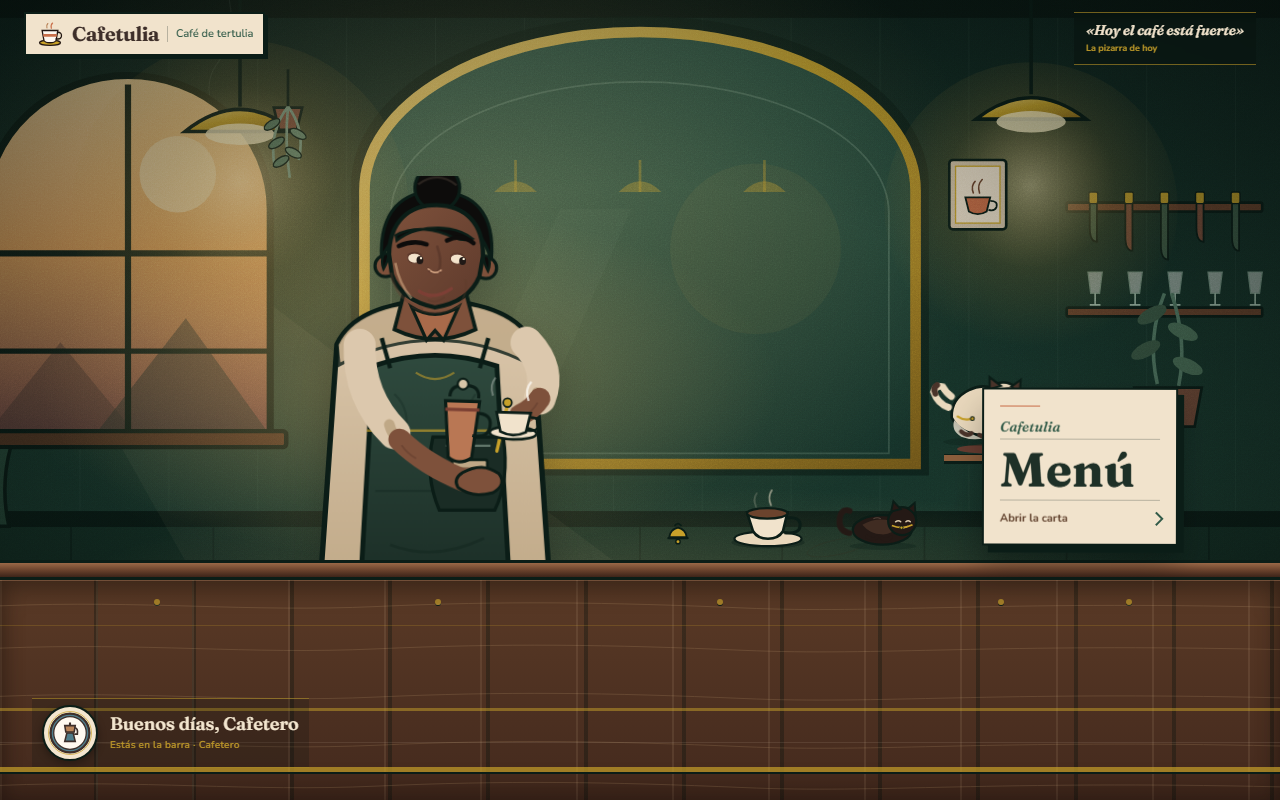
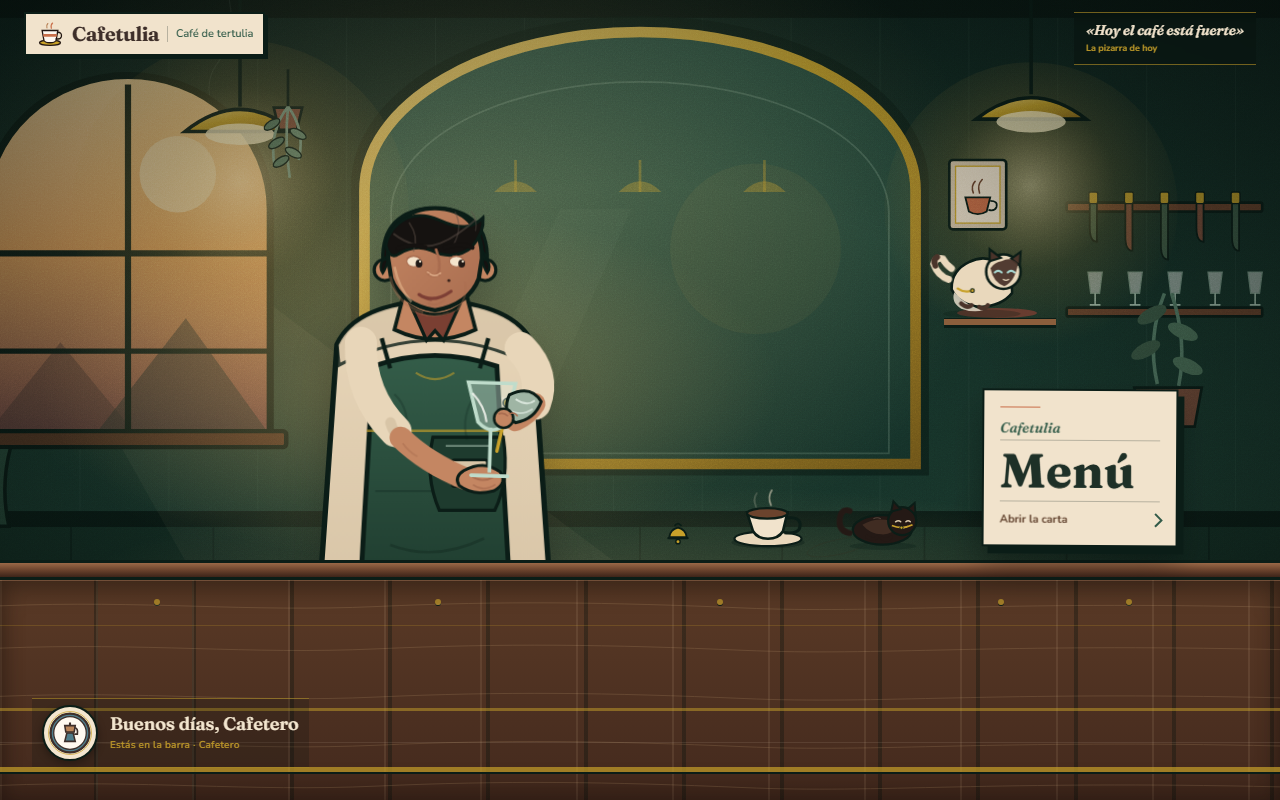
fix: afinar rostro gatos y cache pwa

diff --git a/apps/web/src/components/TitleBarBarista.tsx b/apps/web/src/components/TitleBarBarista.tsx
@@ -213,8 +213,8 @@ export function TitleBarBarista({
           <path d="M128 127 Q150 138 174 125" fill="none" stroke={variant.skinShade} strokeWidth="1.6" opacity="0.28" />
           <path d="M112 86 Q116 106 128 119" fill="none" stroke="#F1C79C" strokeWidth="2.4" opacity="0.45" />
 
-          <path d="M115 70 Q128 64 141 68" fill="none" stroke={variant.hair} strokeWidth="4.2" strokeLinecap="round" />
-          <path d="M160 64 Q173 57 185 66" fill="none" stroke={variant.hair} strokeWidth="4.2" strokeLinecap="round" />
+          <path d="M115 69 Q128 64 141 68" fill="none" stroke={variant.hair} strokeWidth="4.2" strokeLinecap="round" />
+          <path d="M159 68 Q172 63 185 68" fill="none" stroke={variant.hair} strokeWidth="4.2" strokeLinecap="round" />
           <ellipse cx="130" cy="81" rx="6.5" ry="5" fill="#F4E4CC" stroke={variant.skinShade} strokeWidth="1" />
           <ellipse cx="170" cy="81" rx="6.5" ry="5" fill="#F4E4CC" stroke={variant.skinShade} strokeWidth="1" />
           <ellipse cx="135" cy="83" rx="3.2" ry="3.8" fill="#201916" />
@@ -274,9 +274,8 @@ export function TitleBarBarista({
 function ForwardHair({ variant }: { variant: BaristaVariant }): React.ReactElement {
   return (
     <g fill={variant.hair} stroke="#0B1D17" strokeWidth="3">
-      {/* Corte corto: nuca y laterales rebajados, volumen arriba */}
+      {/* Corte corto: nuca y laterales rebajados */}
       <path d="M101 80 C100 50 116 31 150 31 C184 31 200 50 199 80 C192 64 180 56 166 53 C152 50 138 54 126 62 C116 69 106 76 101 80 Z" />
-      <path d="M104 56 C116 44 130 39 145 42 C159 45 171 53 184 48 C190 46 194 42 197 38 C198 48 193 59 185 66 C174 74 161 74 149 69 C137 63 126 67 116 73 C109 77 105 71 104 66 C103 62 103 58 104 56 Z" fill={variant.hairLight} strokeWidth="2.4" opacity="0.9" />
       <path d="M101 80 Q97 86 101 92 Q105 86 106 78 Z" strokeWidth="2.2" />
       <path d="M199 80 Q203 86 199 92 Q195 86 194 78 Z" strokeWidth="2.2" />
       <path d="M106 83 Q110 87 111 92" fill="none" stroke={variant.hairLight} strokeWidth="1.4" opacity="0.5" />
@@ -290,13 +289,14 @@ function ForwardHair({ variant }: { variant: BaristaVariant }): React.ReactEleme
 function ForwardFringe({ variant }: { variant: BaristaVariant }): React.ReactElement {
   return (
     <g>
+      {/* Flequillo barrido hacia delante, con raya lateral y mechones */}
       <path
-        d="M105 61 C111 44 127 35 144 39 C157 42 167 50 180 48 C187 47 192 42 195 37 C197 48 192 60 184 68 C173 77 159 77 147 71 C136 66 126 68 116 74 C109 79 105 72 104 66 Z"
+        d="M105 61 C111 44 127 35 144 39 C157 42 167 50 180 48 C187 47 192 43 195 40 C196 50 191 60 184 68 C173 77 159 77 147 71 C136 66 126 68 116 74 C109 79 105 72 104 66 Z"
         fill={variant.hair}
         stroke="#0B1D17"
         strokeWidth="2.8"
       />
-      <path d="M112 55 C124 65 140 70 155 64 C167 59 178 51 188 42" fill="none" stroke={variant.hairLight} strokeWidth="1.8" opacity="0.5" />
+      <path d="M111 55 C124 65 140 70 155 64 C167 59 178 51 188 42" fill="none" stroke={variant.hairLight} strokeWidth="1.8" opacity="0.5" />
       <path d="M126 45 Q135 58 130 71" fill="none" stroke={variant.hairLight} strokeWidth="1.7" strokeLinecap="round" opacity="0.45" />
       <path d="M169 35 Q176 49 168 64" fill="none" stroke={variant.hairLight} strokeWidth="1.6" strokeLinecap="round" opacity="0.4" />
       <path d="M184 34 Q190 42 188 52" fill="none" stroke={variant.hairLight} strokeWidth="1.4" strokeLinecap="round" opacity="0.4" />

diff --git a/apps/web/src/components/TitleBarScene.tsx b/apps/web/src/components/TitleBarScene.tsx
@@ -418,15 +418,15 @@ export function TitleBarScene({
       </div>
 
       {/* Dos gatos de la casa: siamés en la estantería y oscuro en la barra */}
-      <div className="pointer-events-none absolute bottom-[54.3%] right-[6.5%] z-[3] h-2 w-20 border-y border-[#0B1D17] bg-[#8B5E3C] shadow-[0_2px_0_#0B1D17] sm:right-[17.5%] sm:w-28" />
-      <div className="pointer-events-none absolute bottom-[55.2%] right-[8%] z-[3] h-2.5 w-14 rounded-[50%] bg-[#7A3F32]/80 sm:right-[19%] sm:w-20" />
+      <div className="pointer-events-none absolute bottom-[59.3%] right-[6.5%] z-[3] h-2 w-20 border-y border-[#0B1D17] bg-[#8B5E3C] shadow-[0_2px_0_#0B1D17] sm:right-[17.5%] sm:w-28" />
+      <div className="pointer-events-none absolute bottom-[60.2%] right-[8%] z-[3] h-2.5 w-14 rounded-[50%] bg-[#7A3F32]/80 sm:right-[19%] sm:w-20" />
       <button
         type="button"
         data-testid="title-cat-siames"
         onClick={() => petCat('Miau. El siamés de la casa te mira con ojos azules.')}
         aria-label="Acariciar al gato siamés"
         title="Acariciar al siamés"
-        className="absolute bottom-[55%] right-[8%] z-[4] w-[72px] cursor-pointer text-left transition-transform hover:-translate-y-0.5 focus:outline-2 focus:outline-offset-4 focus:outline-[#F0D278] sm:right-[19%] sm:w-28"
+        className="absolute bottom-[60%] right-[8%] z-[4] w-[72px] cursor-pointer text-left transition-transform hover:-translate-y-0.5 focus:outline-2 focus:outline-offset-4 focus:outline-[#F0D278] sm:right-[19%] sm:w-28"
       >
         <SiameseCat reducedMotion={reducedMotion} />
       </button>

diff --git a/apps/web/src/index.css b/apps/web/src/index.css
@@ -312,10 +312,10 @@
 @keyframes cafe-head-sway {
   0%,
   100% {
-    transform: rotate(-1deg) translateY(0);
+    transform: translateY(0);
   }
   50% {
-    transform: rotate(1.2deg) translateY(-2px);
+    transform: translateY(-1px);
   }
 }
 
@@ -443,7 +443,7 @@
 .cafe-head-gaze {
   transform-box: fill-box;
   transform-origin: 50% 90%;
-  transform: translate(-3px, 1px) rotate(-1.4deg);
+  transform: translateX(-2px);
   transition: transform 300ms ease-out;
 }
 

diff --git a/public/sw.js b/public/sw.js
@@ -1,5 +1,5 @@
 /* global self, caches, fetch, URL */
-const CACHE_NAME = 'cafetulia-shell-v5';
+const CACHE_NAME = 'cafetulia-shell-v6';
 const SHELL_ASSETS = [
   '/',
   '/index.html',
